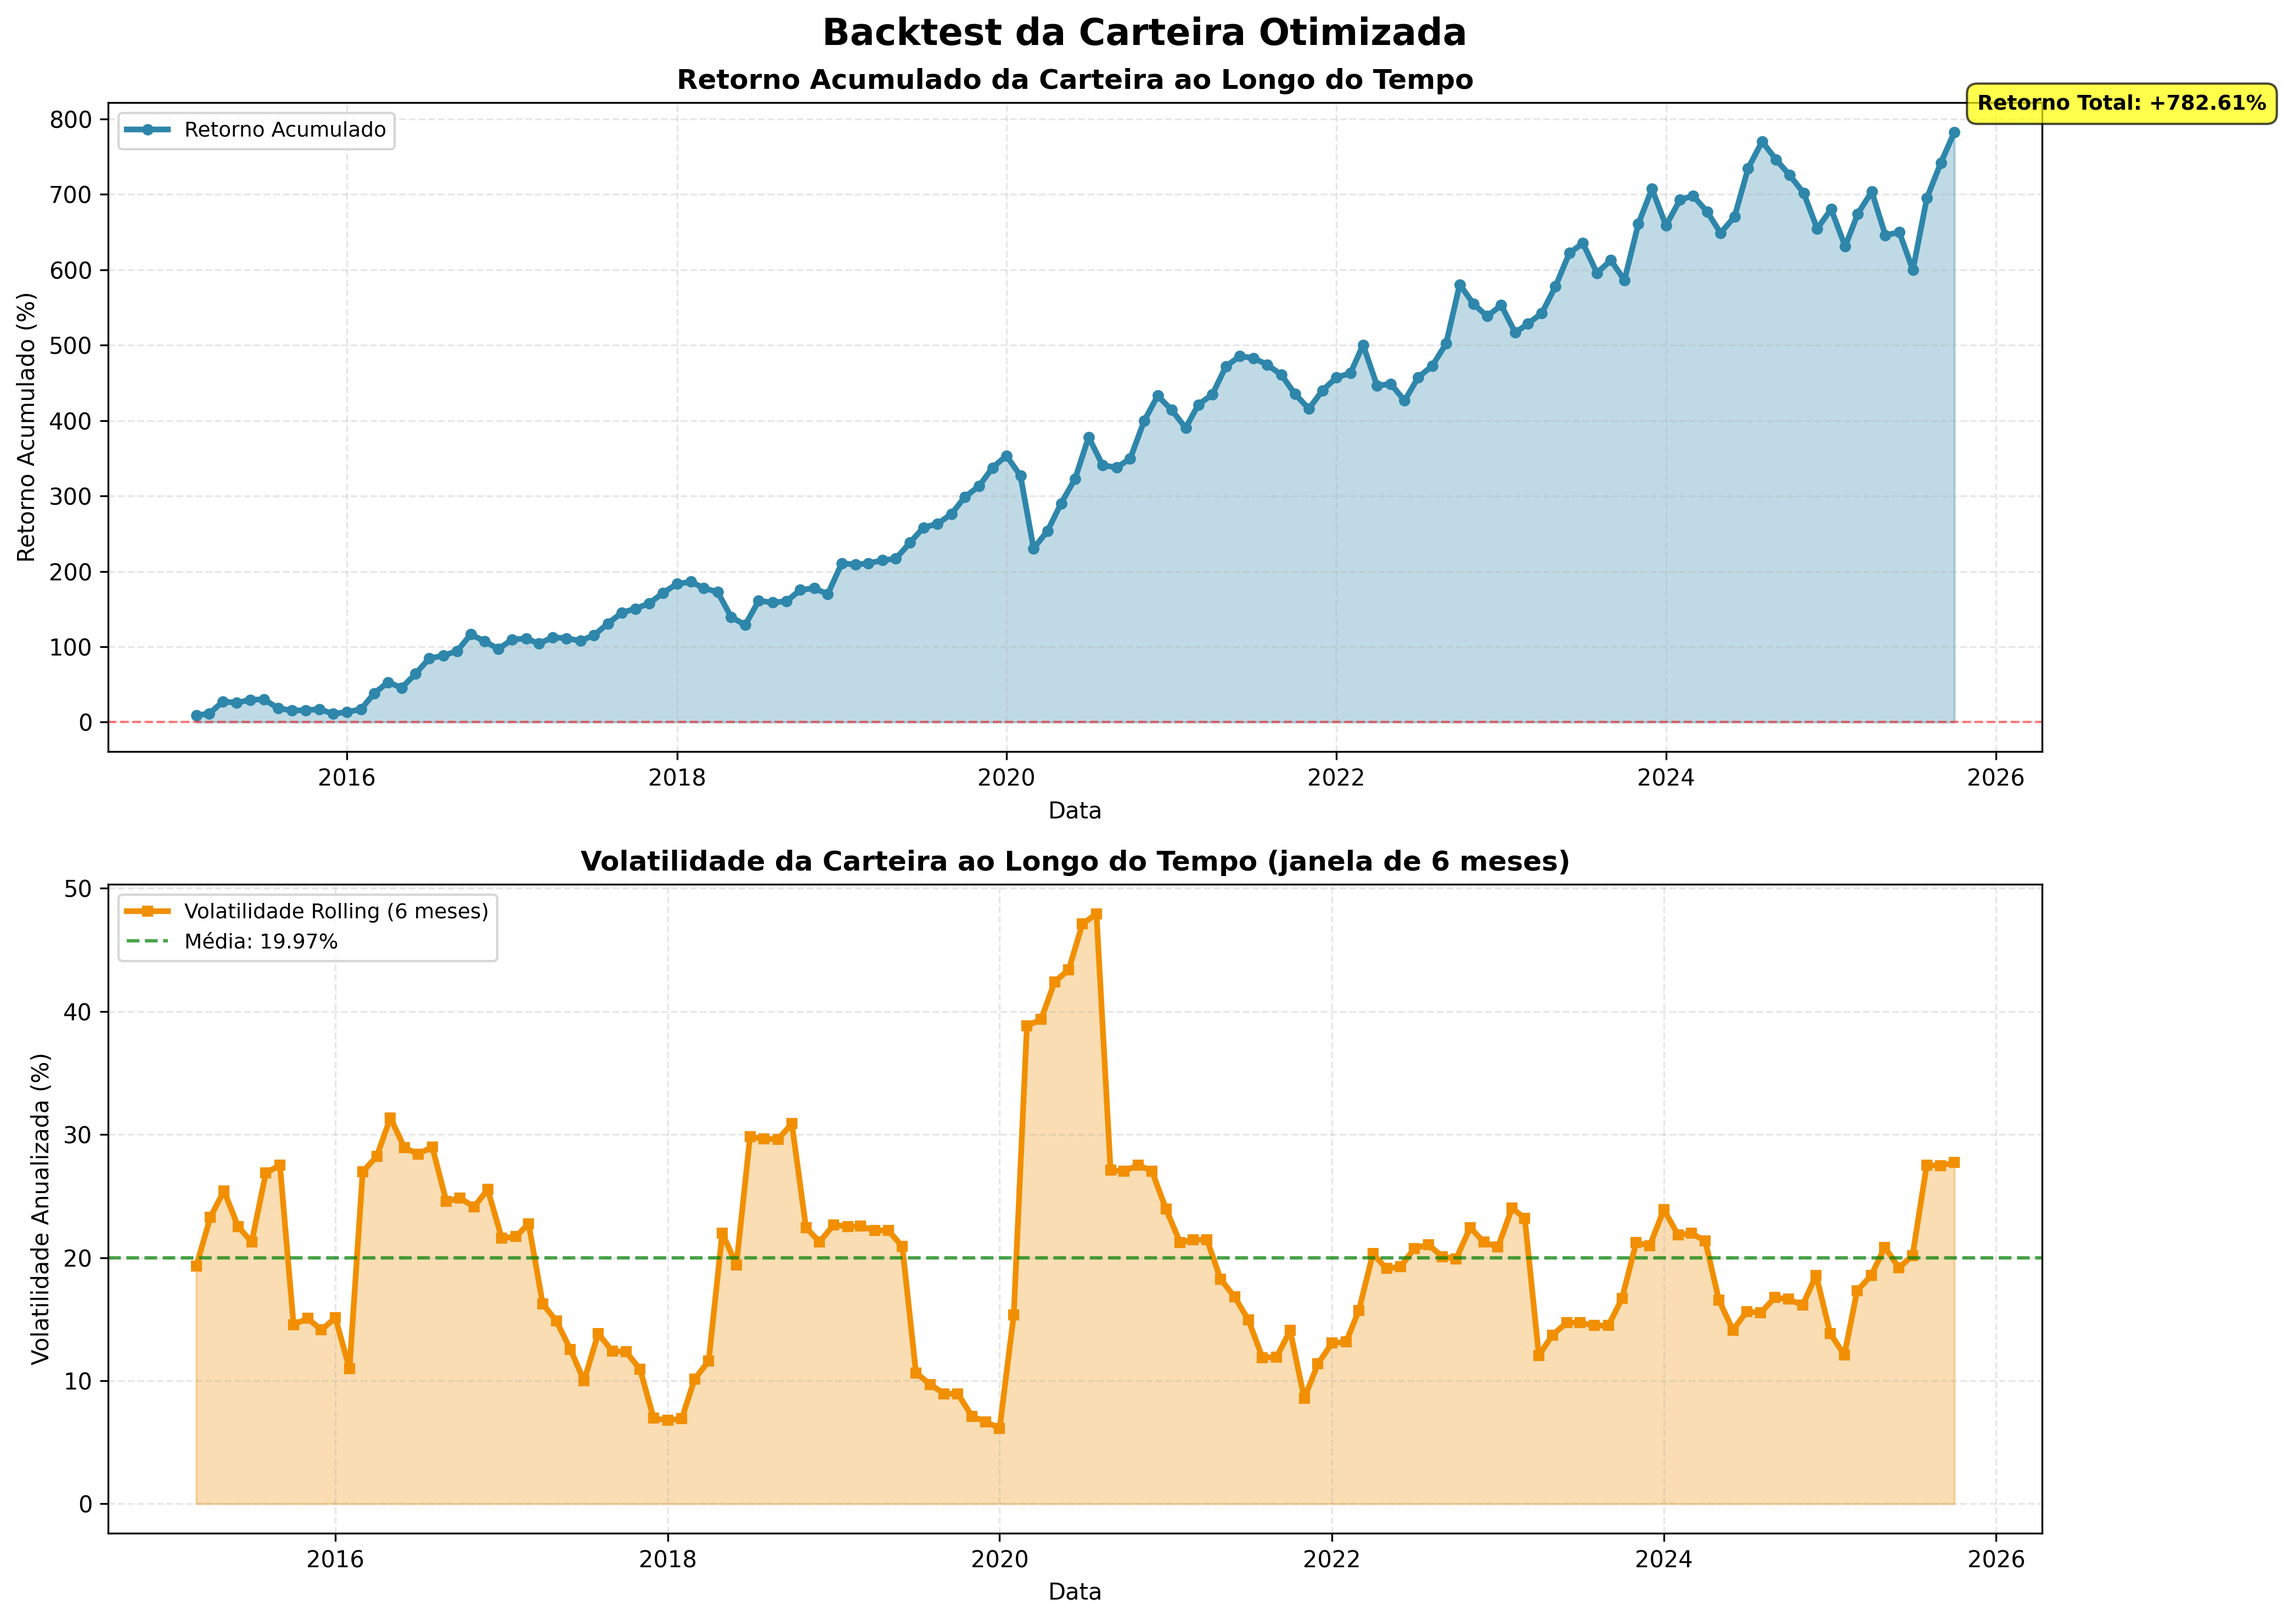
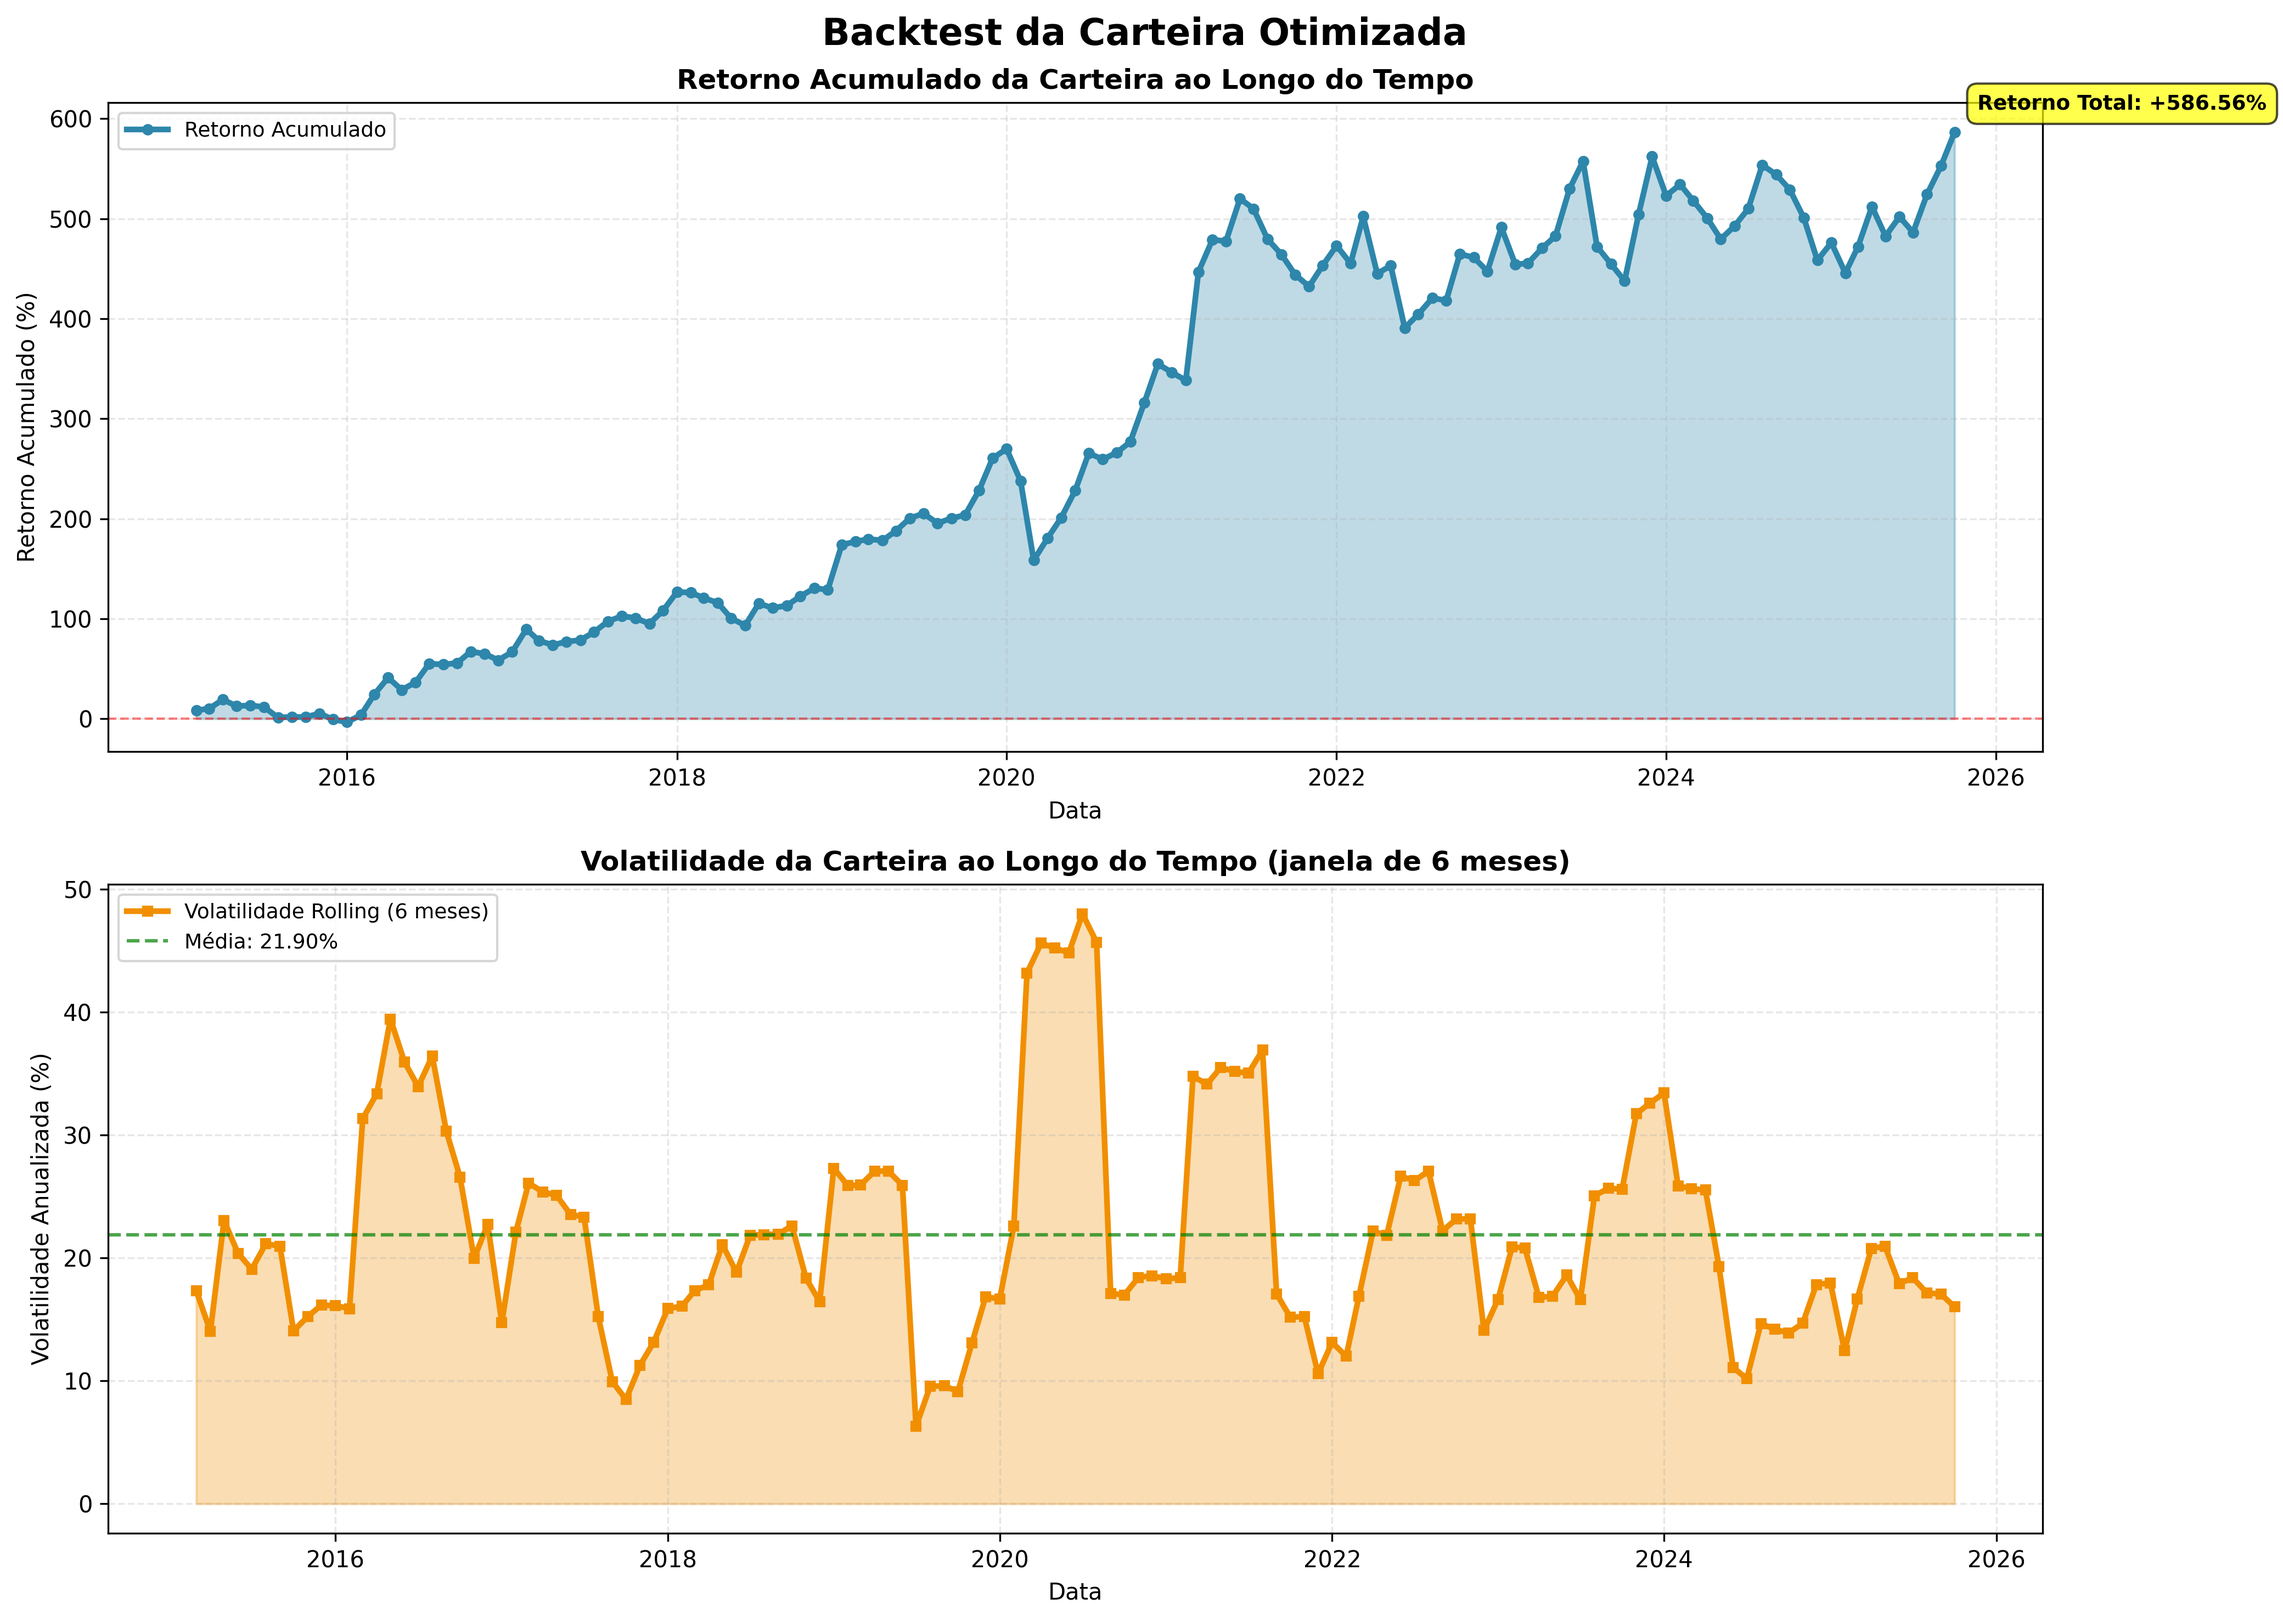
Ajustes

diff --git a/backend/services/agmo/tuning/hyperparameter_tuning_service.py b/backend/services/agmo/tuning/hyperparameter_tuning_service.py
@@ -642,8 +642,8 @@ class HyperparameterTuningService:
                     best = summary.iloc[0]
 
                     optimal_config = {
-                        'num_ativos': num_assets,
-                        'nivel_risco': risk_level,
+                        'num_assets': num_assets,
+                        'risk_level': risk_level,
                         'population_size': int(best['population_size']),
                         'generations': int(best['generations']),
                         'crossover_eta': 15.0,
@@ -718,13 +718,13 @@ class HyperparameterTuningService:
             updated_count = 0
 
             for _, row in df_optimal.iterrows():
-                num_ativos = int(row['num_ativos'])
-                nivel_risco = row['nivel_risco']
+                num_assets = int(row['num_assets'])
+                risk_level = row['risk_level']
 
                 # Verifica se já existe configuração para esta quantidade
                 existing = HyperparameterConfig.query.filter_by(
-                    num_ativos=num_ativos,
-                    risk_level=nivel_risco
+                    num_assets=num_assets,
+                    risk_level=risk_level
                 ).first()
 
                 if existing:
@@ -734,8 +734,8 @@ class HyperparameterTuningService:
 
                 # Cria nova configuração
                 new_config = HyperparameterConfig(
-                    num_ativos=num_ativos,
-                    risk_level=nivel_risco,
+                    num_assets=num_assets,
+                    risk_level=risk_level,
                     population_size=int(row['population_size']),
                     generations=int(row['generations']),
                     crossover_eta=float(row['crossover_eta']),
@@ -786,7 +786,7 @@ class HyperparameterTuningService:
 
         # 1. População ótima vs Número de ativos
         ax = axes[0, 0]
-        ax.plot(df_optimal['num_ativos'], df_optimal['population_size'],
+        ax.plot(df_optimal['num_assets'], df_optimal['population_size'],
                'o-', markersize=10, linewidth=2, color='steelblue')
         ax.set_xlabel('Número de Ativos')
         ax.set_ylabel('População Ótima')
@@ -795,7 +795,7 @@ class HyperparameterTuningService:
 
         # 2. Gerações ótimas vs Número de ativos
         ax = axes[0, 1]
-        ax.plot(df_optimal['num_ativos'], df_optimal['generations'],
+        ax.plot(df_optimal['num_assets'], df_optimal['generations'],
                'o-', markersize=10, linewidth=2, color='forestgreen')
         ax.set_xlabel('Número de Ativos')
         ax.set_ylabel('Gerações Ótimas')
@@ -804,7 +804,7 @@ class HyperparameterTuningService:
 
         # 3. Hypervolume vs Número de ativos
         ax = axes[1, 0]
-        ax.errorbar(df_optimal['num_ativos'], df_optimal['hypervolume_mean'],
+        ax.errorbar(df_optimal['num_assets'], df_optimal['hypervolume_mean'],
                    yerr=df_optimal['hypervolume_std'],
                    fmt='o-', markersize=10, linewidth=2, capsize=5,
                    color='crimson')
@@ -815,7 +815,7 @@ class HyperparameterTuningService:
 
         # 4. Tempo de execução vs Número de ativos
         ax = axes[1, 1]
-        ax.errorbar(df_optimal['num_ativos'], df_optimal['execution_time_mean'],
+        ax.errorbar(df_optimal['num_assets'], df_optimal['execution_time_mean'],
                    yerr=df_optimal['execution_time_std'],
                    fmt='o-', markersize=10, linewidth=2, capsize=5,
                    color='darkorange')

diff --git a/backend/services/agmo/agmo_service.py b/backend/services/agmo/agmo_service.py
@@ -156,7 +156,7 @@ class PersonalizedPortfolioProblem(ElementwiseProblem):
         # print(f"   Min: {x.min():.6f}")
         # print(f"   Max: {x.max():.6f}")
         #
-        # print(f"\n💼 Mapeamento x → Ativos:")
+        # print(f"\n Mapeamento x → Ativos:")
         # for i, (ticker, peso_raw) in enumerate(zip(self.tickers, x)):
         #     print(f"   x[{i}] = {peso_raw:.6f} → {ticker}")
 
@@ -627,13 +627,13 @@ class Nsga2OtimizacaoService:
                     'asset_id': asset.id,
                     'ticker': asset.ticker,
                     'name': asset.name,
-                    'peso': weight
+                    'weight': weight
                 })
 
         # Normalizar pesos para soma = 1
-        weights_sum = sum(item['peso'] for item in final_composition)
+        weights_sum = sum(item['weight'] for item in final_composition)
         for item in final_composition:
-            item['peso'] = item['peso'] / weights_sum
+            item['weight'] = item['weight'] / weights_sum
 
         # Calcula métricas da carteira otimizada
         expected_return = np.dot(optimal_weights, self.mean_returns.values)
@@ -844,12 +844,12 @@ class Nsga2OtimizacaoService:
         print(f"{'─'*80}")
 
         # Ordena por peso (maior para menor)
-        sorted_composition = sorted(composition, key=lambda x: x['peso'], reverse=True)
+        sorted_composition = sorted(composition, key=lambda x: x['weight'], reverse=True)
 
         for i, asset in enumerate(sorted_composition, 1):
             ticker = asset['ticker']
-            name = asset['nome'][:32] + '...' if len(asset['nome']) > 35 else asset['nome']
-            weight = asset['peso']
+            name = asset['name'][:32] + '...' if len(asset['name']) > 35 else asset['name']
+            weight = asset['weight']
             weight_pct = weight * 100
 
             # Barra visual
@@ -926,7 +926,7 @@ def _calculate_portfolio_return(app, portfolio: List[Dict],
         )
 
         # Calcular retorno ponderado da carteira
-        weights_dict = {item['ticker']: item['peso'] for item in portfolio}
+        weights_dict = {item['ticker']: item['weight'] for item in portfolio}
 
         monthly_returns = []
         dates = []
@@ -1070,7 +1070,7 @@ def save_backtest_chart(portfolio: List[Dict],
 
 
 def optimize_current_portfolio(app):
-    service = Nsga2OtimizacaoService(app, [1], "arrojado", 10, show_chart=True)
+    service = Nsga2OtimizacaoService(app, [], "conservador", 15, show_chart=True)
     result = service.optimize(max_assets=10, use_optimal_config=False)
 
     # Informações adicionais
@@ -1083,7 +1083,7 @@ def optimize_current_portfolio(app):
 def backtest(app):
     from datetime import date
     backtest_date = date(2015, 1, 1)
-    backtest_service = Nsga2OtimizacaoService(app, [1, 10], "arrojado", 10, reference_date=backtest_date, show_chart=True)
+    backtest_service = Nsga2OtimizacaoService(app, [1, 10], "conservador", 10, reference_date=backtest_date, show_chart=True)
     backtest_portfolio = backtest_service.optimize(max_assets=10)
 
     # Informações do backtest
@@ -1119,10 +1119,10 @@ def main():
     app = create_app()
 
     # Exemplo 1: Otimização normal (sem backtest)
- #   optimize_current_portfolio(app)
+    optimize_current_portfolio(app)
 
     # Exemplo 2: Otimização com backtest (usando dados até uma data específica)
-    backtest(app)
+  #  backtest(app)
 
 
 if __name__ == "__main__":

diff --git a/backend/services/history_processor/yfinance_processor.py b/backend/services/history_processor/yfinance_processor.py
@@ -1,3 +1,6 @@
+import random
+import time
+
 import yfinance as yf
 import pandas as pd
 from calendar import monthrange
@@ -44,11 +47,15 @@ class YFinanceProcessor:
         """
         value = row[column]
 
-        # Se for Series, pega o primeiro valor
-        if isinstance(value, pd.Series):
-            value = value.iloc[0]
+        # Se vier MultiIndex ou Series, pega o primeiro valor
+        if isinstance(value, (pd.Series, list, tuple)) or hasattr(value, "__len__") and not isinstance(value,
+                                                                                                       (float, int)):
+            try:
+                value = value.iloc[0]
+            except Exception:
+                value = value[0]
 
-        # Converte para float se não for NaN
+        # Se ainda não for número, converte
         if pd.isna(value):
             return None
 
@@ -201,7 +208,7 @@ class YFinanceProcessor:
                 return
 
             # Pegar último dia útil
-            last_row = data.iloc[-1]
+            last_row = data.tail(1).reset_index(drop=True).iloc[0]
 
             # Extrair data
             date_col = last_row['Date']

diff --git a/backend/services/agmo/tuning/exemplo_tuning.py b/backend/services/agmo/tuning/exemplo_tuning.py
@@ -45,9 +45,9 @@ def example_1_convergence_analysis():
 
     # Busca alguns ativos para teste
     with app.app_context():
-        ativos = db.session.query(Asset).limit(10).all()
-        ids_ativos = [a.id for a in ativos]
-        print(f"Usando {len(ids_ativos)} ativos para análise: {[a.ticker for a in ativos]}\n")
+        assets = db.session.query(Asset).limit(10).all()
+        ids_assets = [a.id for a in assets]
+        print(f"Usando {len(ids_assets)} ativos para análise: {[a.ticker for a in assets]}\n")
 
     # Cria o serviço de tuning
     tuning_service = HyperparameterTuningService(app)
@@ -61,7 +61,7 @@ def example_1_convergence_analysis():
 
     try:
         resultados = tuning_service.convergence_analysis(
-            ids_assets=ids_ativos,
+            ids_assets=ids_assets,
             risk_level='moderado',
             max_generations=50,
             population_size=100,
